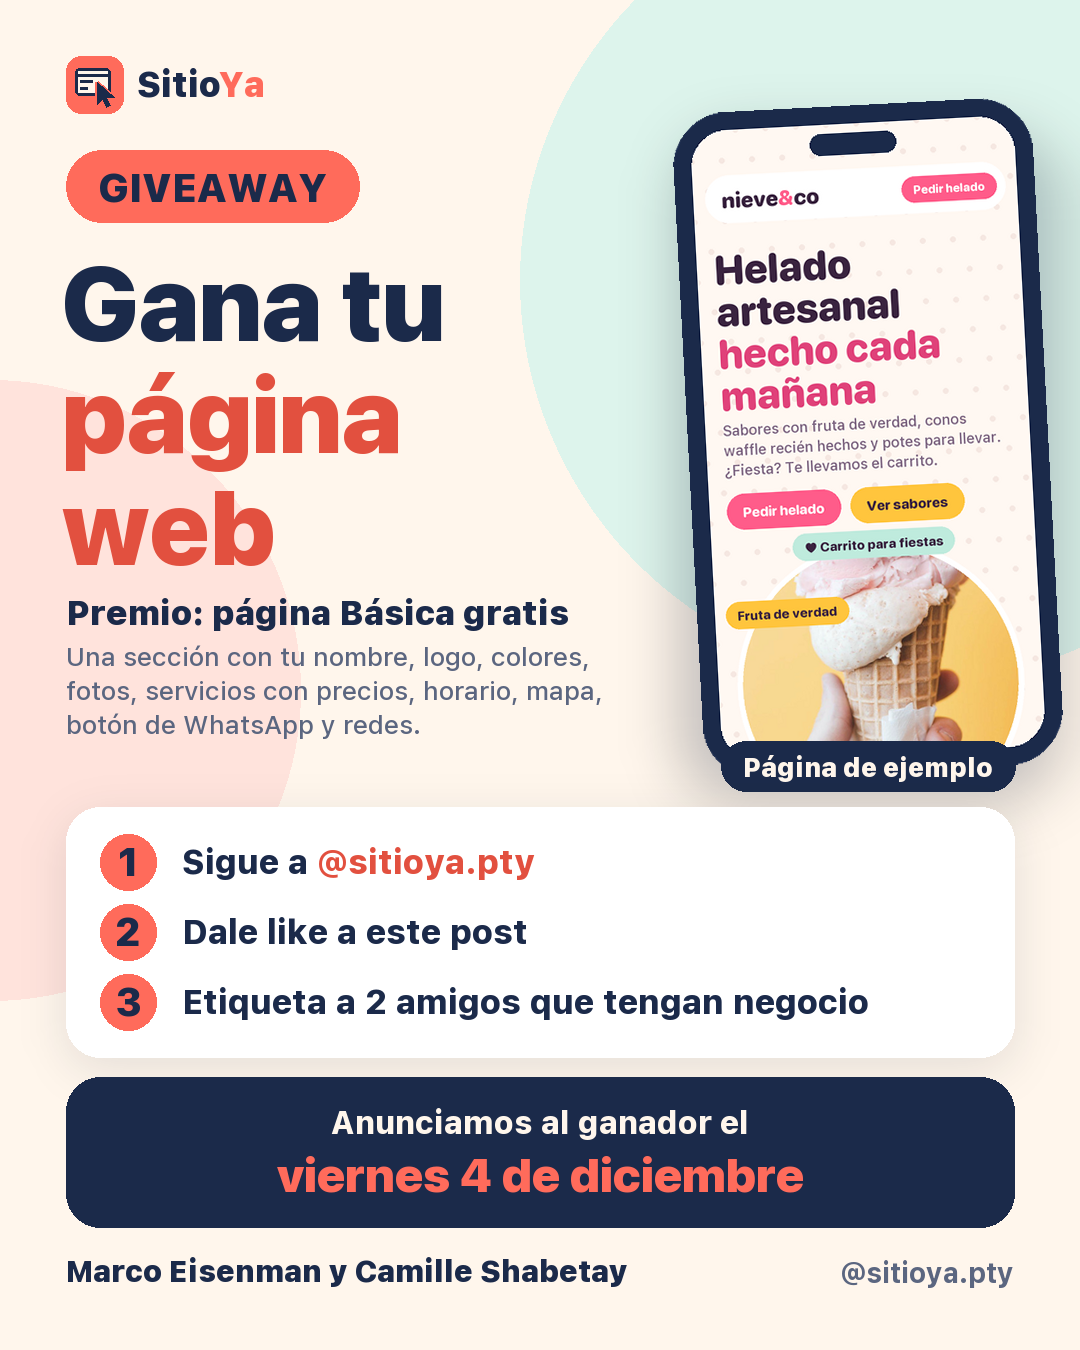
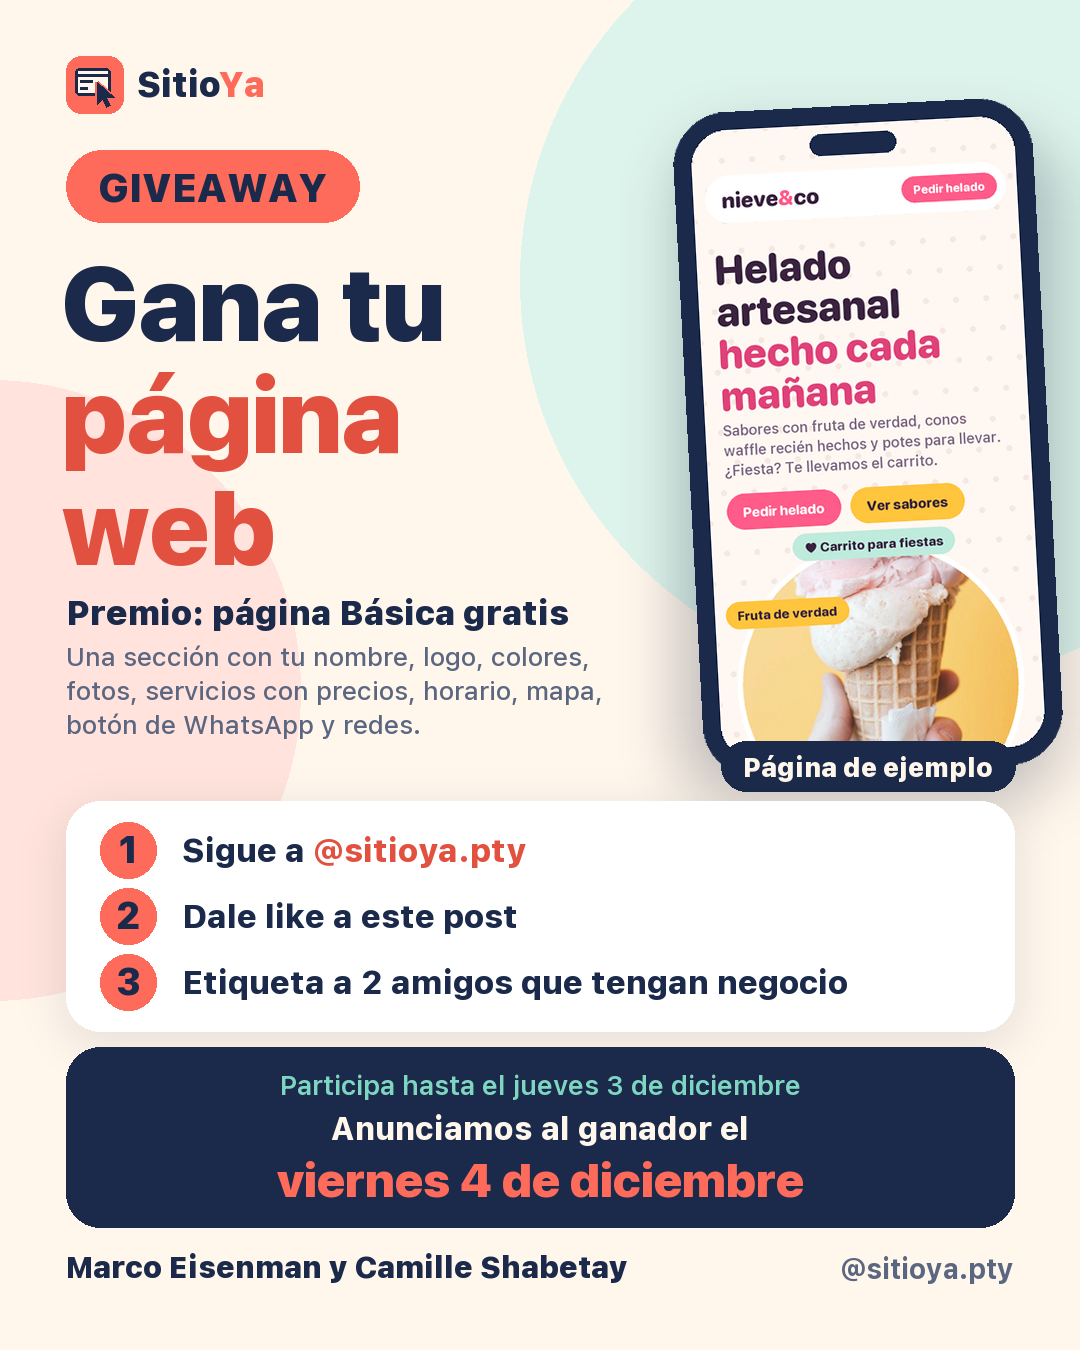
[Claude] Codex: giveaway con fecha de cierre (jue 3-dic) y VIDEOS.md al día
Claude-Session: https://claude.ai/code/session_01HjM58LyjDP46JMonKLDErg

Changed region(s): [[0.0611, 0.5911, 0.9472, 0.9022], [0.0611, 0.9333, 0.5806, 0.9644], [0.7639, 0.9333, 0.9472, 0.9644]]

diff --git a/tools/redes_giveaway.py b/tools/redes_giveaway.py
@@ -10,7 +10,7 @@ from PIL import ImageDraw
 
 sys.path.insert(0, os.path.dirname(os.path.abspath(__file__)))
 from redes_heladeria import (  # noqa: E402
-    BLANCO, BLUSH, CORAL, CORAL_D, CREMA, NAVY, SOFT,
+    BLANCO, BLUSH, CORAL, CORAL_D, CREMA, MENTA, NAVY, SOFT,
     base, envolver, fuente, logo_sitioya, pantalla_portada, pastilla, sombra, texto_ancho,
 )
 from redes_posts import MENTA_CLARO, SALIDA, celular_chico  # noqa: E402
@@ -25,6 +25,7 @@ REGLAS = (
     (('Etiqueta a 2 amigos que tengan negocio', NAVY),),
 )
 FECHA = 'viernes 4 de diciembre'
+CIERRE = 'Participa hasta el jueves 3 de diciembre'
 ETIQUETA_TEL = 'Página de ejemplo'
 
 
@@ -51,13 +52,16 @@ def reglas(im, caja, tam, hueco):
 
 
 def caja_fecha(d, caja, tam):
-    """Caja azul: 'Anunciamos al ganador el' + fecha grande en coral."""
+    """Caja azul: fecha de cierre + 'Anunciamos al ganador el' + fecha grande en coral."""
     x0, y0, x1, y1 = caja
     d.rounded_rectangle(caja, 34, fill=NAVY)
-    f1, f2 = fuente(tam, 800), fuente(int(tam * 1.5), 900)
+    f0, f1, f2 = fuente(int(tam * 0.85), 600), fuente(tam, 800), fuente(int(tam * 1.5), 900)
     cx = (x0 + x1) / 2
-    alto = f1.size * 1.3 + f2.size
+    alto = f0.size * 1.5 + f1.size * 1.3 + f2.size
     y = y0 + ((y1 - y0) - alto) / 2 - tam * 0.12
+    w = texto_ancho(d, CIERRE, f0)
+    d.text((cx - w / 2, y), CIERRE, font=f0, fill=MENTA)
+    y += f0.size * 1.5
     for t, f, c in (('Anunciamos al ganador el', f1, CREMA), (FECHA, f2, CORAL)):
         w = texto_ancho(d, t, f)
         assert w < (x1 - x0) - 50, t
@@ -95,14 +99,14 @@ def feed():
              pad=(22, 12), centro=True)
     fin_tel = y_tel + h
     # reglas
-    top = max(y, fin_tel) + 26
-    caja_r = (66, top, W - 66, top + 250)
-    d = reglas(im, caja_r, 34, 14)
+    top = max(y, fin_tel) + 20
+    caja_r = (66, top, W - 66, top + 230)
+    d = reglas(im, caja_r, 33, 10)
     # fecha
-    caja_f = (66, caja_r[3] + 20, W - 66, caja_r[3] + 20 + 150)
+    caja_f = (66, caja_r[3] + 16, W - 66, caja_r[3] + 16 + 180)
     caja_fecha(d, caja_f, 32)
     # firma
-    fy = caja_f[3] + 26
+    fy = caja_f[3] + 22
     fn = fuente(30, 900)
     d.text((66, fy), NOMBRE, font=fn, fill=NAVY)
     fu = fuente(28, 700)
@@ -127,7 +131,7 @@ def story():
     y = lineas(d, (W / 2, 322), ('Gana tu',), f, NAVY, centrado=True, ancho_max=990)
     y = lineas(d, (W / 2, y), ('página web',), f, CORAL_D, centrado=True, ancho_max=990)
     # celular a la izquierda, premio a la derecha
-    ancho = 284
+    ancho = 262
     x_tel, y_tel = 90, y + 30
     w, h = celular_chico(im, (x_tel, y_tel), pantalla_portada(600, 1170), ancho, girar=-3)
     d = ImageDraw.Draw(im)
@@ -148,9 +152,9 @@ def story():
     # reglas + fecha + firma
     caja_r = (70, fin + 30, W - 70, fin + 30 + 270)
     d = reglas(im, caja_r, 37, 14)
-    caja_f = (70, caja_r[3] + 20, W - 70, caja_r[3] + 20 + 160)
+    caja_f = (70, caja_r[3] + 20, W - 70, caja_r[3] + 20 + 200)
     caja_fecha(d, caja_f, 36)
-    fy = caja_f[3] + 26
+    fy = caja_f[3] + 22
     fn = fuente(34, 900)
     w = texto_ancho(d, NOMBRE, fn)
     d.text(((W - w) / 2, fy), NOMBRE, font=fn, fill=NAVY)

diff --git a/redes/posts/LEEME.md b/redes/posts/LEEME.md
@@ -49,7 +49,7 @@ Story (1080x1920): `redes/ejemplo-heladeria/story-encuesta.png` · ¿Tu negocio 
 
 Los videos los hace Cam (ver `redes/VIDEOS.md`). Los nombres viejos `4-precios.png`, `5-siguenos.png`, `9-siguenos.png` y `13-siguenos-tu-negocio-merece-pagina.png` redirigen a los nuevos (`vercel.json`).
 
-Giveaway (premio: una página Básica gratis, ganador el viernes 4 de diciembre): `giveaway-1080x1350.png` (feed) y `giveaway-story-1080x1920.png` (story), salen de `tools/redes_giveaway.py`. El caption listo para copiar está en `giveaway-caption.txt`.
+Giveaway (premio: una página Básica gratis, se participa hasta el jueves 3 y el ganador se anuncia el viernes 4 de diciembre): `giveaway-1080x1350.png` (feed) y `giveaway-story-1080x1920.png` (story), salen de `tools/redes_giveaway.py`. El caption listo para copiar está en `giveaway-caption.txt`.
 
 ## Qué se cuidó
 - Llamados a la acción variados: "Comenta PÁGINA" solo en los de venta (8 Precios y 12 Ejemplo gratis). Los demás usan preguntas para opinar, "Guárdalo", "Compártelo con alguien que tenga negocio" o "Escríbenos por WhatsApp al 6919-7559". En las imágenes el botón dibujado "Comenta PÁGINA" solo queda en el 12; el 2 y la slide 4 de la Heladería cierran con "Escríbenos al 6919-7559" y el 5 y el 10 con "Guárdalo".

diff --git a/redes/VIDEOS.md b/redes/VIDEOS.md
@@ -85,6 +85,6 @@ Caption:
 > #Panamá #EmprendedoresPanamá #NegociosPanamá #PáginaWeb #SitioYa
 
 ## Paquete de la semana para Drive
-`python3 tools/armar_contenido.py` arma `contenido/<fecha>/` (los días que ya existen no se tocan; `--rehacer` los arma de nuevo y guarda el anterior en `contenido/_anterior/`) (del 2026-11-27 al 2026-12-03, según el plan semanal) con cada imagen o video final y su caption en un `.txt` al lado. `contenido/` no va a Git ni a Vercel: es para subirlo a la carpeta de Drive. El post giveaway de los viernes queda pendiente hasta definir premio y reglas.
+`python3 tools/armar_contenido.py` arma `contenido/<fecha>/` (los días que ya existen no se tocan; `--rehacer` los arma de nuevo y guarda el anterior en `contenido/_anterior/`) (del 2026-11-27 al 2026-12-03, según el plan semanal) con cada imagen o video final y su caption en un `.txt` al lado. `contenido/` no va a Git ni a Vercel: es para subirlo a la carpeta de Drive. El post del giveaway (premio: página Básica gratis; cierra jue 3-dic, ganador vie 4-dic) sale de `tools/redes_giveaway.py` (ver `redes/posts/LEEME.md`).
 
 Recordatorio: negocios ficticios, sin marcas ni logos de terceros y sin reseñas ni cifras inventadas.
